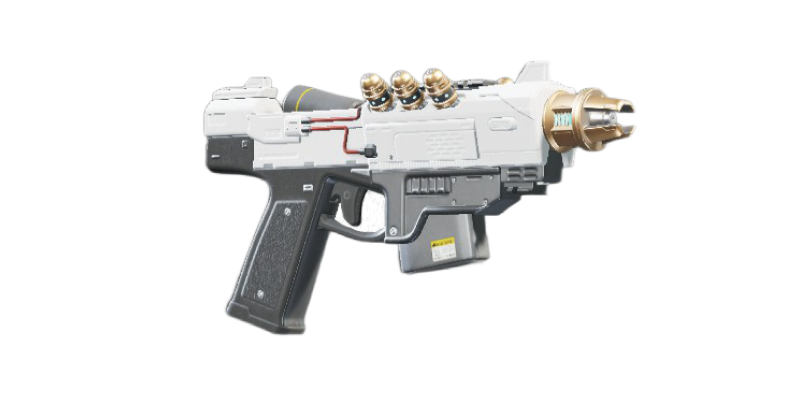
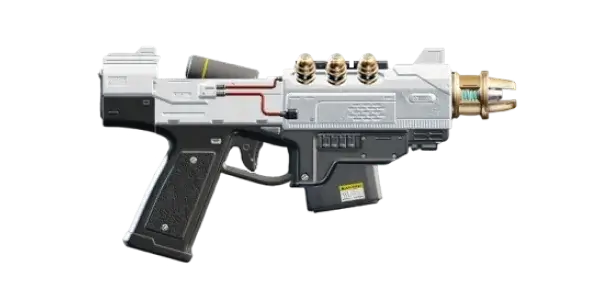
feat: Добавлено новое вторичное оружие
chore: Оптимизированы изображения вторичного вооружения (Размеры снижены на 15%)

Changed region(s): [[0.15, 0.1495, 0.87, 0.897]]

diff --git a/store/WeaponsStore.ts b/store/WeaponsStore.ts
@@ -615,7 +615,7 @@ class WeaponsStore {
   secondaryWeapons = [
     {
       id: 1,
-      imagePath: "/static/Weaponry/secondary/P2Image.webp",
+      imagePath: "/static/Weaponry/secondary/P2.webp",
       weaponType: weaponTypes.secondary,
       name: "P-2 «Миротворец»",
       description:
@@ -633,7 +633,43 @@ class WeaponsStore {
     },
     {
       id: 2,
-      imagePath: "/static/Weaponry/secondary/P19Image.webp",
+      imagePath: "/static/Weaponry/secondary/P4.webp",
+      weaponType: weaponTypes.secondary,
+      name: "P-4 «Сенатор»",
+      description:
+        "Мощный револьвер, который можно перезаряжать по одному патрону. Надежное оружие, наносящее большой урон.",
+      price: 15,
+      damage: 175,
+      magsCount: 3.33,
+      roundsPerMag: 6,
+      totalRounds: 20,
+      recoil: 43,
+      fireRate: 200,
+      totalDamage: 3000,
+      dps: 299,
+      obtainingTypeIcon: obtainingTypes[6].icon,
+    },
+    {
+      id: 3,
+      imagePath: "/static/Weaponry/secondary/P11.webp",
+      weaponType: weaponTypes.secondary,
+      name: "P-11 Стим-пистолет",
+      description:
+        "Стреляет баллистическим дротиком почти со скоростью звука, позволяя применять стимы на расстоянии. Будет больно.",
+      price: 5,
+      damage: 0,
+      magsCount: 4,
+      roundsPerMag: 6,
+      totalRounds: 124,
+      recoil: 6,
+      fireRate: 70,
+      totalDamage: 7440,
+      dps: 841,
+      obtainingTypeIcon: obtainingTypes[5].icon,
+    },
+    {
+      id: 4,
+      imagePath: "/static/Weaponry/secondary/P19.webp",
       weaponType: weaponTypes.secondary,
       name: "P-19 «Избавитель»",
       description:
@@ -650,58 +686,22 @@ class WeaponsStore {
       obtainingTypeIcon: obtainingTypes[5].icon,
     },
     {
-      id: 3,
-      imagePath: "/static/Weaponry/secondary/P4.webp",
-      weaponType: weaponTypes.secondary,
-      name: "P-4 «Сенатор»",
-      description:
-        "Мощный револьвер, который можно перезаряжать по одному патрону. Надежное оружие, наносящее большой урон.s",
-      price: 15,
-      damage: 175,
-      magsCount: 3.33,
-      roundsPerMag: 6,
-      totalRounds: 20,
-      recoil: 43,
-      fireRate: 200,
-      totalDamage: 3000,
-      dps: 299,
-      obtainingTypeIcon: obtainingTypes[6].icon,
-    },
-    {
-      id: 4,
-      imagePath: "/static/Weaponry/secondary/LAS7.webp",
-      weaponType: weaponTypes.secondary,
-      name: "LAS-7 «Кинжал»",
-      description:
-        "Лазерный пистолет, стреляющий непрерывным лучом. Не требует боеприпасов, но может перегреться и потребовать замены батареек.",
-      price: 60,
-      damage: 200,
-      magsCount: 3,
-      roundsPerMag: 3,
-      totalRounds: 9,
-      recoil: 1,
-      fireRate: 1,
-      totalDamage: 1350,
-      dps: 127,
-      obtainingTypeIcon: obtainingTypes[7].icon,
-    },
-    {
       id: 5,
-      imagePath: "/static/Weaponry/secondary/Gp31Image.webp",
+      imagePath: "/static/Weaponry/secondary/P72.webp",
       weaponType: weaponTypes.secondary,
-      name: "GP-31 «Пистолет-гранатомет»",
+      name: "P-72 «Фритюр»",
       description:
-        "Пистолет, стреляющий гранатами. Его необходимо перезаряжать между выстрелами.",
-      price: 60,
-      damage: 600,
-      magsCount: 8,
-      roundsPerMag: 1,
-      totalRounds: 8,
-      recoil: 43,
-      fireRate: 900,
-      totalDamage: 4800,
-      dps: 734,
-      obtainingTypeIcon: obtainingTypes[8].icon,
+        "Невероятно скорострельный автоматический пистолет, позволяющий разбираться с толпами врагов.",
+      price: 5,
+      damage: 60,
+      magsCount: 4,
+      roundsPerMag: 31,
+      totalRounds: 124,
+      recoil: 11,
+      fireRate: 1100,
+      totalDamage: 7440,
+      dps: 841,
+      obtainingTypeIcon: obtainingTypes[5].icon,
     },
     {
       id: 6,
@@ -723,7 +723,25 @@ class WeaponsStore {
     },
     {
       id: 7,
-      imagePath: "/static/Weaponry/secondary/Sg22Image.webp",
+      imagePath: "/static/Weaponry/secondary/GP31.webp",
+      weaponType: weaponTypes.secondary,
+      name: "GP-31 «Пистолет-гранатомет»",
+      description:
+        "Пистолет, стреляющий гранатами. Его необходимо перезаряжать между выстрелами.",
+      price: 60,
+      damage: 600,
+      magsCount: 8,
+      roundsPerMag: 1,
+      totalRounds: 8,
+      recoil: 43,
+      fireRate: 900,
+      totalDamage: 4800,
+      dps: 734,
+      obtainingTypeIcon: obtainingTypes[8].icon,
+    },
+    {
+      id: 8,
+      imagePath: "/static/Weaponry/secondary/SG22.webp",
       weaponType: weaponTypes.secondary,
       name: "SG-22 «Партизан»",
       description:
@@ -740,7 +758,25 @@ class WeaponsStore {
       obtainingTypeIcon: obtainingTypes[10].icon,
     },
     {
-      id: 8,
+      id: 9,
+      imagePath: "/static/Weaponry/secondary/LAS7.webp",
+      weaponType: weaponTypes.secondary,
+      name: "LAS-7 «Кинжал»",
+      description:
+        "Лазерный пистолет, стреляющий непрерывным лучом. Не требует боеприпасов, но может перегреться и потребовать замены батареек.",
+      price: 60,
+      damage: 200,
+      magsCount: 3,
+      roundsPerMag: 3,
+      totalRounds: 9,
+      recoil: 1,
+      fireRate: 1,
+      totalDamage: 1350,
+      dps: 127,
+      obtainingTypeIcon: obtainingTypes[7].icon,
+    },
+    {
+      id: 10,
       imagePath: "/static/Weaponry/secondary/PLAS15.webp",
       weaponType: weaponTypes.secondary,
       name: "PLAS-15 «Верный»",
@@ -752,6 +788,42 @@ class WeaponsStore {
       roundsPerMag: 3,
       totalRounds: 30,
       recoil: 170,
+      fireRate: 650,
+      totalDamage: 10000,
+      dps: 695,
+      obtainingTypeIcon: obtainingTypes[10].icon,
+    },
+    {
+      id: 11,
+      imagePath: "/static/Weaponry/secondary/CQC19.webp",
+      weaponType: weaponTypes.secondary,
+      name: "CQC-19 Оглушающее копье",
+      description:
+        "Оружие ближнего боя, оснащенное электрозубцами. Способно ненадолго оглушать цели. Можно использовать как одноручное оружие.",
+      price: 45,
+      damage: 405,
+      magsCount: 8,
+      roundsPerMag: 3,
+      totalRounds: 30,
+      recoil: 8,
+      fireRate: 650,
+      totalDamage: 10000,
+      dps: 695,
+      obtainingTypeIcon: obtainingTypes[10].icon,
+    },
+    {
+      id: 12,
+      imagePath: "/static/Weaponry/secondary/CQC30.webp",
+      weaponType: weaponTypes.secondary,
+      name: "CQC-30 Оглушающая дубинка",
+      description:
+        "Легкое оружие ближнего боя. Способно ненадолго оглушать цели.",
+      price: 45,
+      damage: 405,
+      magsCount: 8,
+      roundsPerMag: 3,
+      totalRounds: 30,
+      recoil: 8,
       fireRate: 650,
       totalDamage: 10000,
       dps: 695,
